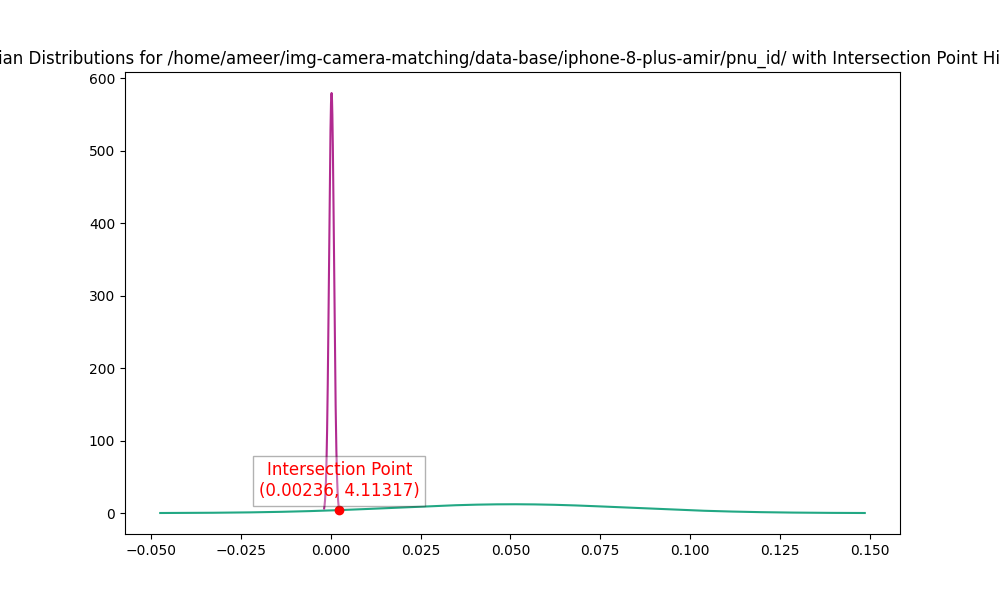
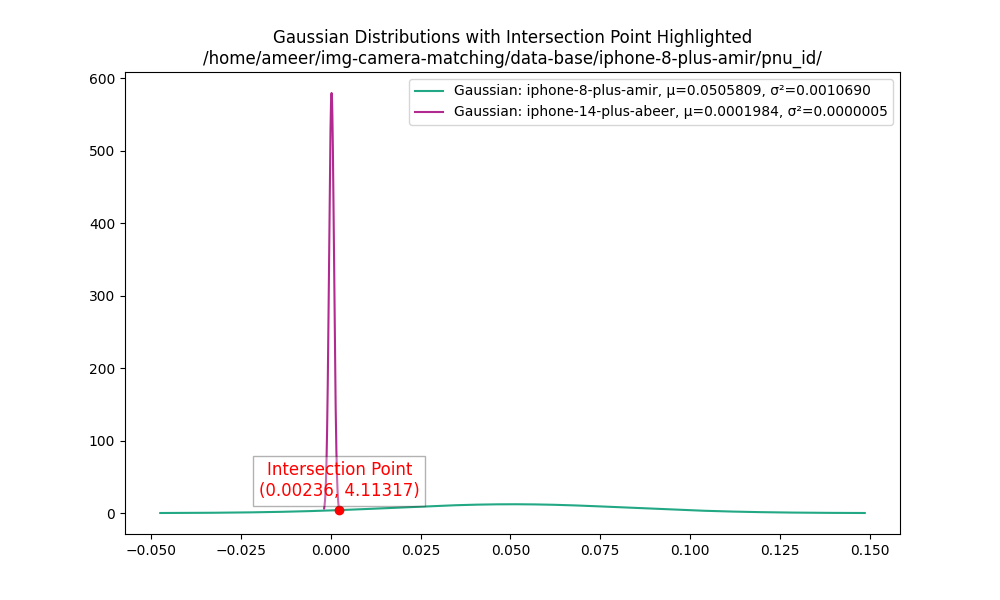
data added

Changed region(s): [[0.0, 0.03, 1.0, 0.21]]

diff --git a/main.py b/main.py
@@ -28,5 +28,5 @@ if __name__ == '__main__':
         g = LoadGaussianPair(**allgaussianPairs.get_gaussian(x))
         path = GAUSSIANPLOTSTHEORY + '_'.join(g.axis_1.split('/')[-1:])+'$'+'_'.join(g.axis_2.split('/')[-1:])
         g.find_gaussian_intersections()
-        g.visualize()
+        g.visualize(path)
     
